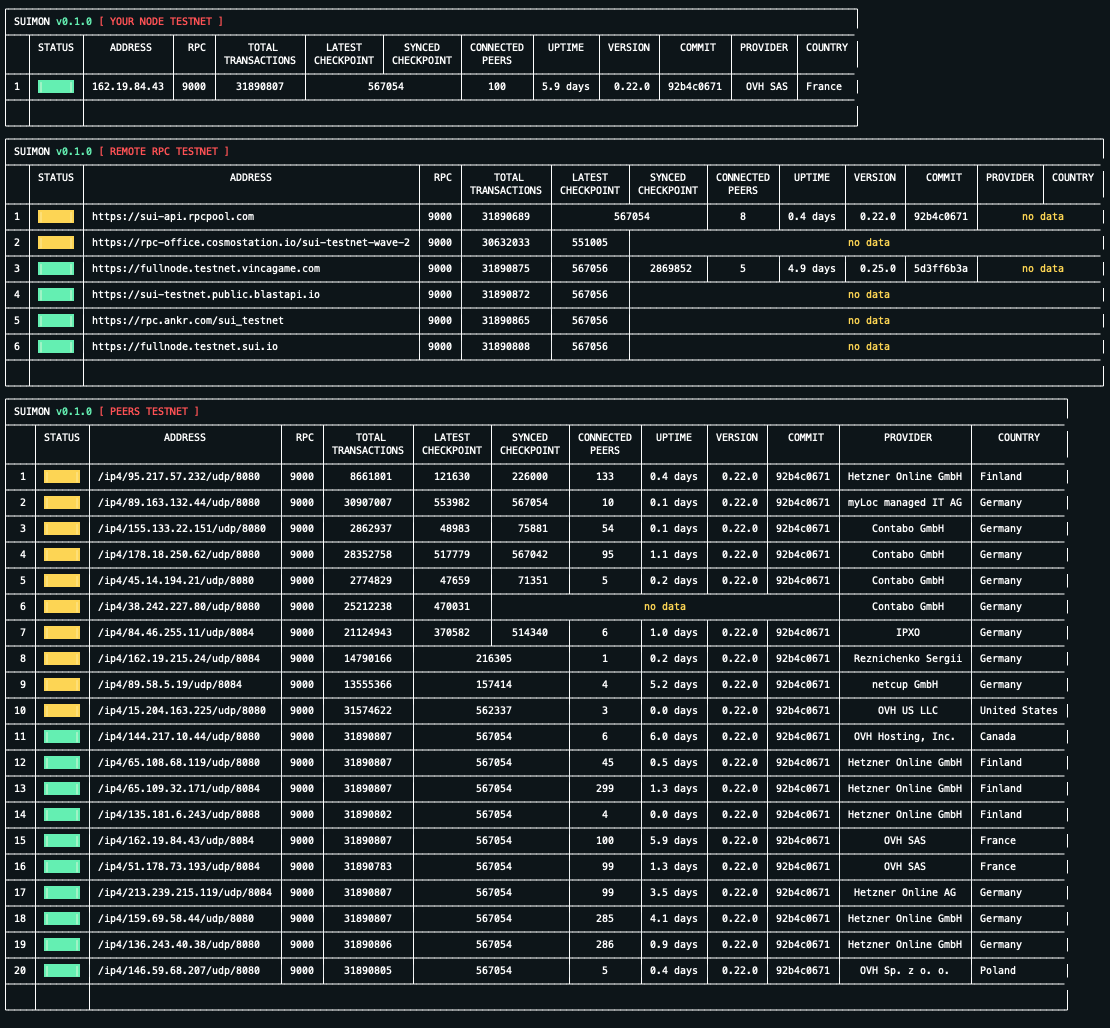
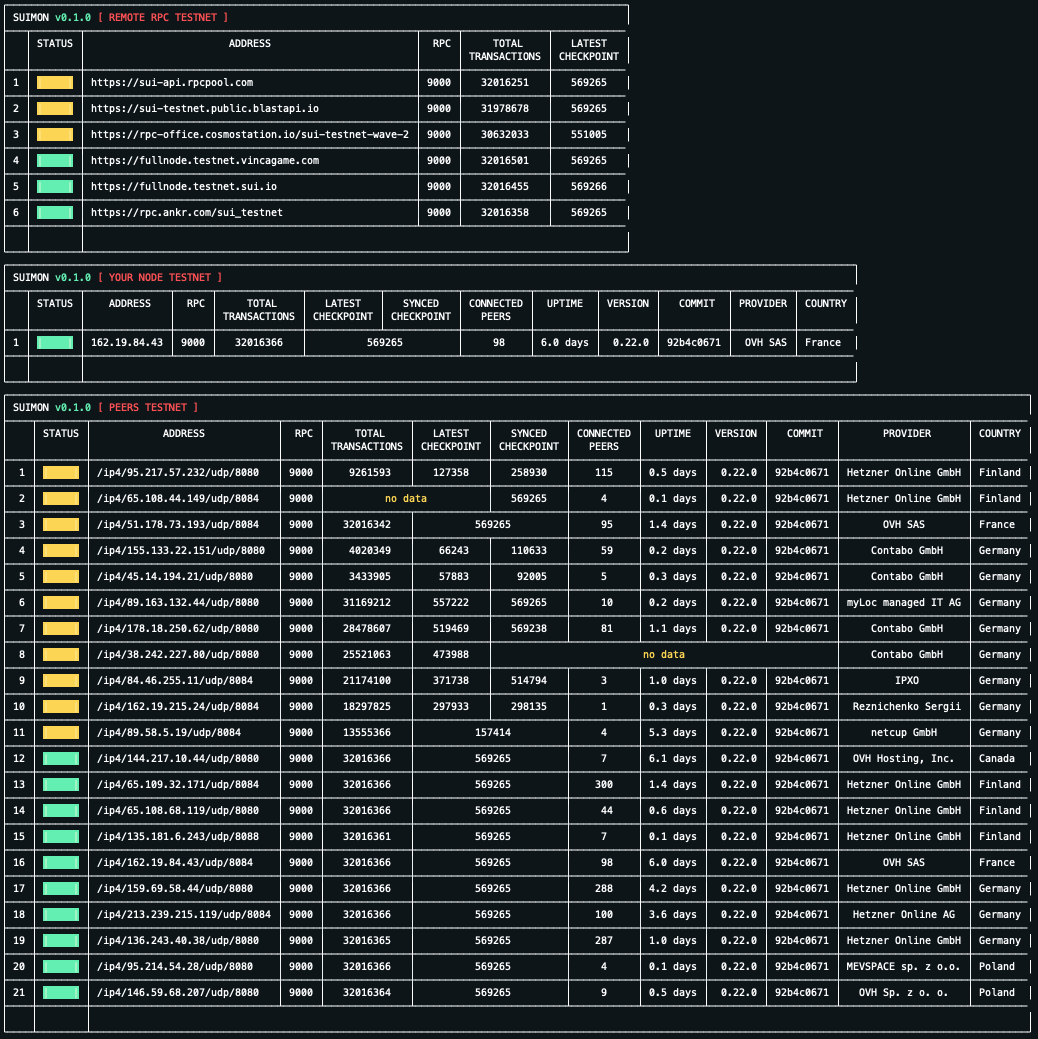
Removed unused columns from RPC table

diff --git a/suimon/cmd/checker/checker_init_tables.go b/suimon/cmd/checker/checker_init_tables.go
@@ -27,20 +27,25 @@ func (checker *Checker) InitTable(tableType enums.TableType) {
 	suimonConfig := checker.suimonConfig
 
 	tableConfig := tablebuilder.TableConfig{
-		Name:         tables.GetTableTitleSUI(suimonConfig.NetworkType, tableType, suimonConfig.MonitorsVisual.EnableEmojis),
-		Colors:       tablebuilder.GetTableColorsFromString(suimonConfig.MonitorsVisual.ColorScheme),
-		Tag:          tables.TableTagSUINode,
-		Style:        tables.TableStyleSUINode,
-		RowsCount:    0,
-		ColumnsCount: len(tables.ColumnConfigSUINode),
-		SortConfig:   tables.TableSortConfigSUINode,
+		Name:       tables.GetTableTitleSUI(suimonConfig.NetworkType, tableType, suimonConfig.MonitorsVisual.EnableEmojis),
+		Colors:     tablebuilder.GetTableColorsFromString(suimonConfig.MonitorsVisual.ColorScheme),
+		Tag:        tables.TableTagSUINode,
+		Style:      tables.TableStyleSUINode,
+		RowsCount:  0,
+		SortConfig: tables.TableSortConfigSUINode,
 	}
 
-	columns := make(tablebuilder.Columns, len(tables.ColumnConfigSUINode))
+	lastColumn := tables.ColumnNameSUINodeCountry
+	if tableType == enums.TableTypeRPC {
+		lastColumn = tables.ColumnNameSUINodeLatestCheckpoint
+	}
+
+	columnsCount := int(lastColumn) + 1
+	columns := make(tablebuilder.Columns, columnsCount)
 	emojisEnabled := checker.suimonConfig.MonitorsVisual.EnableEmojis
 
-	for idx, config := range tables.ColumnConfigSUINode {
-		columns[idx].Config = config
+	for i := 0; i < columnsCount; i++ {
+		columns[i].Config = tables.ColumnConfigSUINode[i]
 	}
 
 	for _, host := range hosts {
@@ -70,27 +75,30 @@ func (checker *Checker) InitTable(tableType enums.TableType) {
 		columns[tables.ColumnNameSUINodePortRPC].SetValue(port)
 		columns[tables.ColumnNameSUINodeTotalTransactions].SetValue(host.Metrics.TotalTransactionNumber)
 		columns[tables.ColumnNameSUINodeLatestCheckpoint].SetValue(host.Metrics.LatestCheckpoint)
-		columns[tables.ColumnNameSUINodeHighestCheckpoint].SetValue(host.Metrics.HighestSyncedCheckpoint)
-		columns[tables.ColumnNameSUINodeConnectedPeers].SetValue(host.Metrics.SuiNetworkPeers)
-		columns[tables.ColumnNameSUINodeUptime].SetValue(host.Metrics.Uptime)
-		columns[tables.ColumnNameSUINodeVersion].SetValue(host.Metrics.Version)
-		columns[tables.ColumnNameSUINodeCommit].SetValue(host.Metrics.Commit)
 
-		if host.Location == nil {
-			columns[tables.ColumnNameSUINodeCompany].SetValue(nil)
-			columns[tables.ColumnNameSUINodeCountry].SetValue(nil)
+		if tableType != enums.TableTypeRPC {
+			columns[tables.ColumnNameSUINodeHighestCheckpoint].SetValue(host.Metrics.HighestSyncedCheckpoint)
+			columns[tables.ColumnNameSUINodeConnectedPeers].SetValue(host.Metrics.SuiNetworkPeers)
+			columns[tables.ColumnNameSUINodeUptime].SetValue(host.Metrics.Uptime)
+			columns[tables.ColumnNameSUINodeVersion].SetValue(host.Metrics.Version)
+			columns[tables.ColumnNameSUINodeCommit].SetValue(host.Metrics.Commit)
 
-			continue
+			if host.Location == nil {
+				columns[tables.ColumnNameSUINodeCompany].SetValue(nil)
+				columns[tables.ColumnNameSUINodeCountry].SetValue(nil)
+
+				continue
+			}
+
+			columns[tables.ColumnNameSUINodeCompany].SetValue(host.Location.Provider)
+
+			var country any = host.Location.String()
+			if !emojisEnabled {
+				country = host.Location.CountryName
+			}
+
+			columns[tables.ColumnNameSUINodeCountry].SetValue(country)
 		}
-
-		columns[tables.ColumnNameSUINodeCompany].SetValue(host.Location.Provider)
-
-		var country any = host.Location.String()
-		if !emojisEnabled {
-			country = host.Location.CountryName
-		}
-
-		columns[tables.ColumnNameSUINodeCountry].SetValue(country)
 	}
 
 	tableConfig.Columns = columns

diff --git a/suimon/cmd/checker/tablebuilder/tablebuilder.go b/suimon/cmd/checker/tablebuilder/tablebuilder.go
@@ -2,6 +2,7 @@ package tablebuilder
 
 import (
 	"fmt"
+	"github.com/bartosian/sui_helpers/suimon/cmd/checker/tablebuilder/tables"
 	"os"
 
 	"github.com/jedib0t/go-pretty/v6/table"
@@ -82,7 +83,7 @@ func (tb *TableBuilder) SetRows() {
 	footer[0] = fmt.Sprintf("%s%s%s", enums.ColorRed, tb.config.Tag, enums.ColorReset)
 
 	for i := 0; i < tb.config.RowsCount; i++ {
-		rowValues := make([]any, 0, tb.config.ColumnsCount)
+		rowValues := make([]any, 0, len(tables.ColumnConfigSUINode))
 
 		for _, column := range tb.config.Columns {
 			rowValues = append(rowValues, column.Values[i])

diff --git a/suimon/cmd/checker/checker.go b/suimon/cmd/checker/checker.go
@@ -94,11 +94,11 @@ func (checker *Checker) setTableBuilderTableType(tableType enums.TableType, tc t
 }
 
 func (checker *Checker) DrawTable() {
-	if checker.suimonConfig.MonitorsConfig.NodeTable.Display {
-		checker.tableBuilderNode.Build()
-	}
 	if checker.suimonConfig.MonitorsConfig.RPCTable.Display {
 		checker.tableBuilderRPC.Build()
+	}
+	if checker.suimonConfig.MonitorsConfig.NodeTable.Display {
+		checker.tableBuilderNode.Build()
 	}
 	if checker.suimonConfig.MonitorsConfig.PeersTable.Display {
 		checker.tableBuilderPeer.Build()

diff --git a/suimon/cmd/checker/host.go b/suimon/cmd/checker/host.go
@@ -71,7 +71,7 @@ func (host *Host) SetStatus(tableType enums.TableType, rpc Host) {
 			status = enums.StatusYellow
 		}
 	case true:
-		if metricsHost.TotalTransactionNumber == "" {
+		if metricsHost.TotalTransactionNumber == "" || metricsHost.LatestCheckpoint == "" {
 			status = enums.StatusRed
 
 			if tableType == enums.TableTypePeers {
